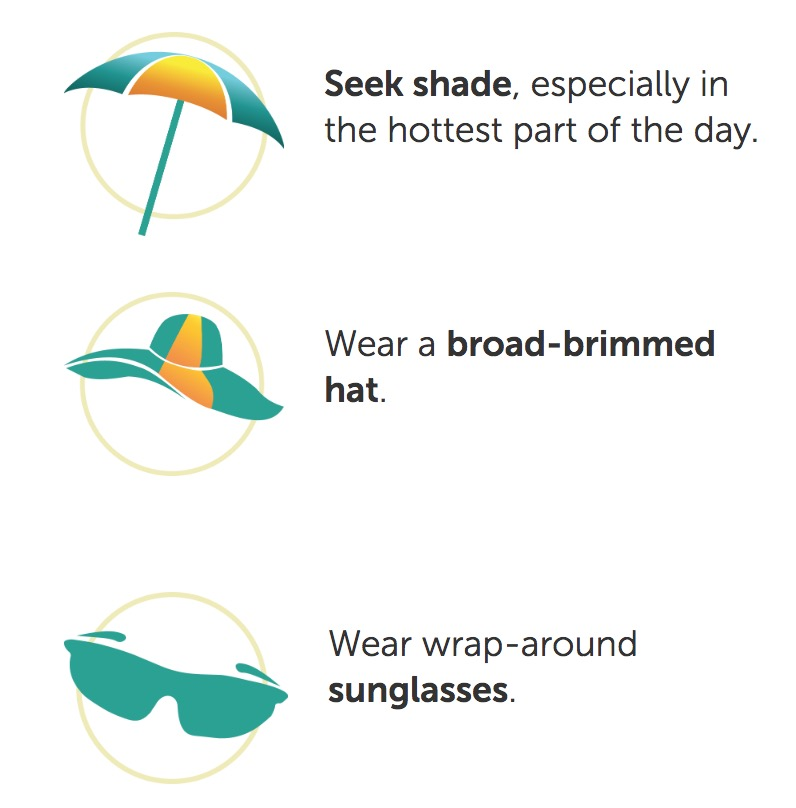
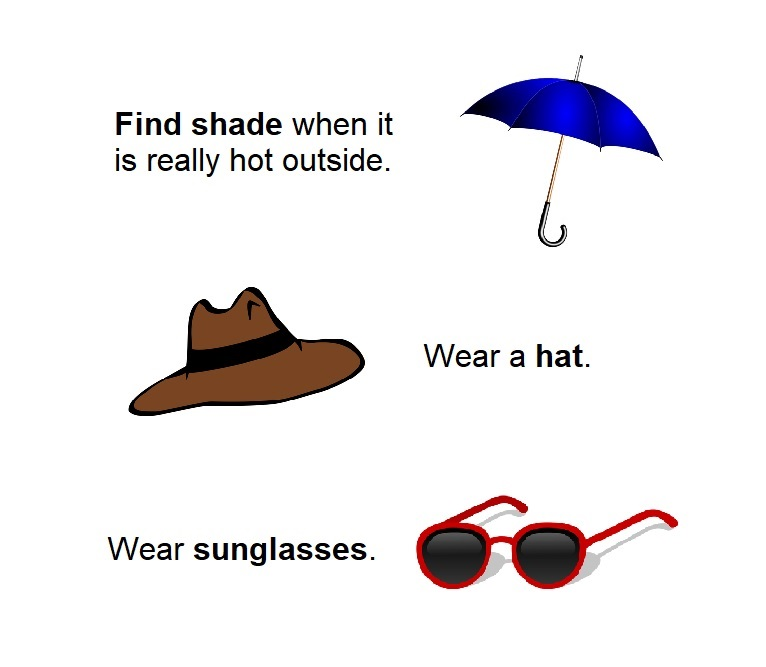
Removed copyrighted images and use own images.

diff --git a/src/app/prenevtion/prenevtion.component.html b/src/app/prenevtion/prenevtion.component.html
@@ -170,18 +170,12 @@
     <div fxFlex=50% style="padding-left: 5px;">
       <img src="../../assets/img/left.jpg" style="max-width: 80%; max-height: 500px;" />
       <p class="content-text" style="text-align: center">Figure 1. Prevention Tips<br></p>
-      <p class="content-text">Source: Avoid Skin Cancer in the Summer Heat – Hollis Cobb. (2019). Retrieved from <a
-          href="https://www.holliscobb.com/avoid-skin-cancer-summer-heat/">https://www.holliscobb.com/avoid-skin-cancer-summer-heat/</a><br><br>
-      </p>
     </div>
   </div>
   <div fxLayout fxLayout.lt-md="column">
     <div fxFlex=50% style="padding-left: 5px;margin-top: 50px">
       <img src="../../assets/img/right.jpg" style="max-width: 80%; max-height: 400px;" />
       <p class="content-text" style="text-align: center">Figure 2. Prevention Tips<br></p>
-      <p class="content-text">Source: Avoid Skin Cancer in the Summer Heat – Hollis Cobb. (2019). Retrieved from <a
-          href="https://www.holliscobb.com/avoid-skin-cancer-summer-heat/">https://www.holliscobb.com/avoid-skin-cancer-summer-heat/</a><br><br>
-      </p>
     </div>
     <div fxFlex=50% class="grey-block" style="padding-left: 5px">
       <p class="second-block">WHAT IS THE BEST TYPE OF SUNSCREEN?</p>

diff --git a/src/app/Info-pages/about-info/about-info.component.html b/src/app/Info-pages/about-info/about-info.component.html
@@ -9,11 +9,5 @@
       the damage, cells begin to divide and grow uncontrollably. This growth eventually leads to
       tumours.<br><br>
     </p>
-    <img src="../../../assets/img/info-pic1.jpg"/>
-    <p style="text-align: center">Figure 1: How cancer starts<br></p>
-    <p style="font-size: 15px;">Source: What is cancer?.(2019). Retrieved from <a href="https://www.cancercouncil.com.au/2404/cancer-information/all-about-cancer/">https://www.cancercouncil.com.au/2404/cancer-information/all-about-cancer/</a><br><br></p>
-    <img src="../../../assets/img/info-pic2.jpg"/>
-    <p style="text-align: center">Figure 2: How cancer spreads<br></p>
-    <p style="font-size: 15px;">Source: What is cancer?.(2019). Retrieved from <a href="https://www.cancercouncil.com.au/2404/cancer-information/all-about-cancer/">https://www.cancercouncil.com.au/2404/cancer-information/all-about-cancer/</a><br></p>
   </mat-card-content>
 </mat-card>
